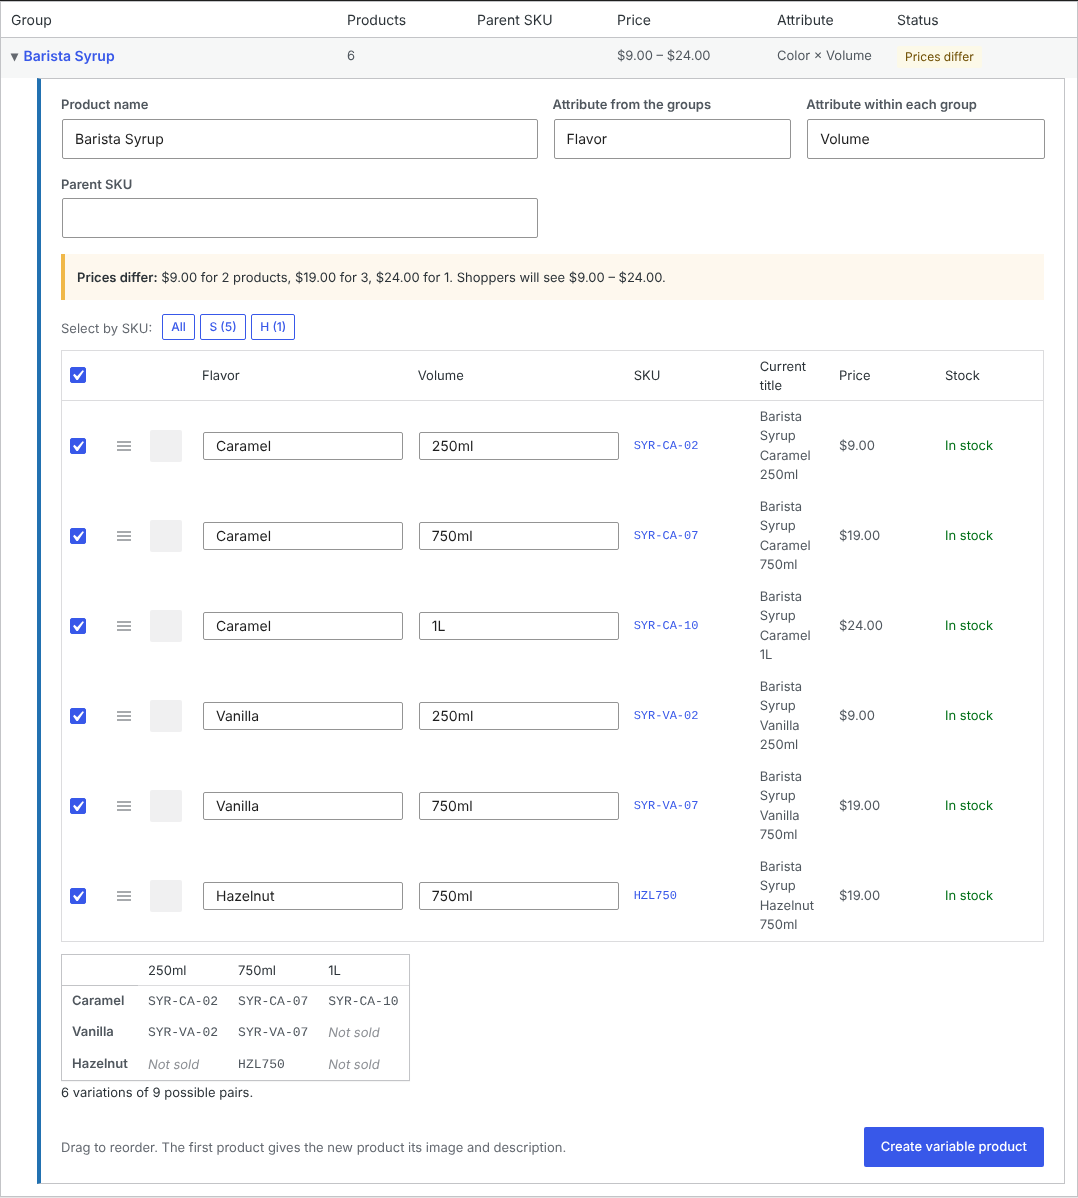
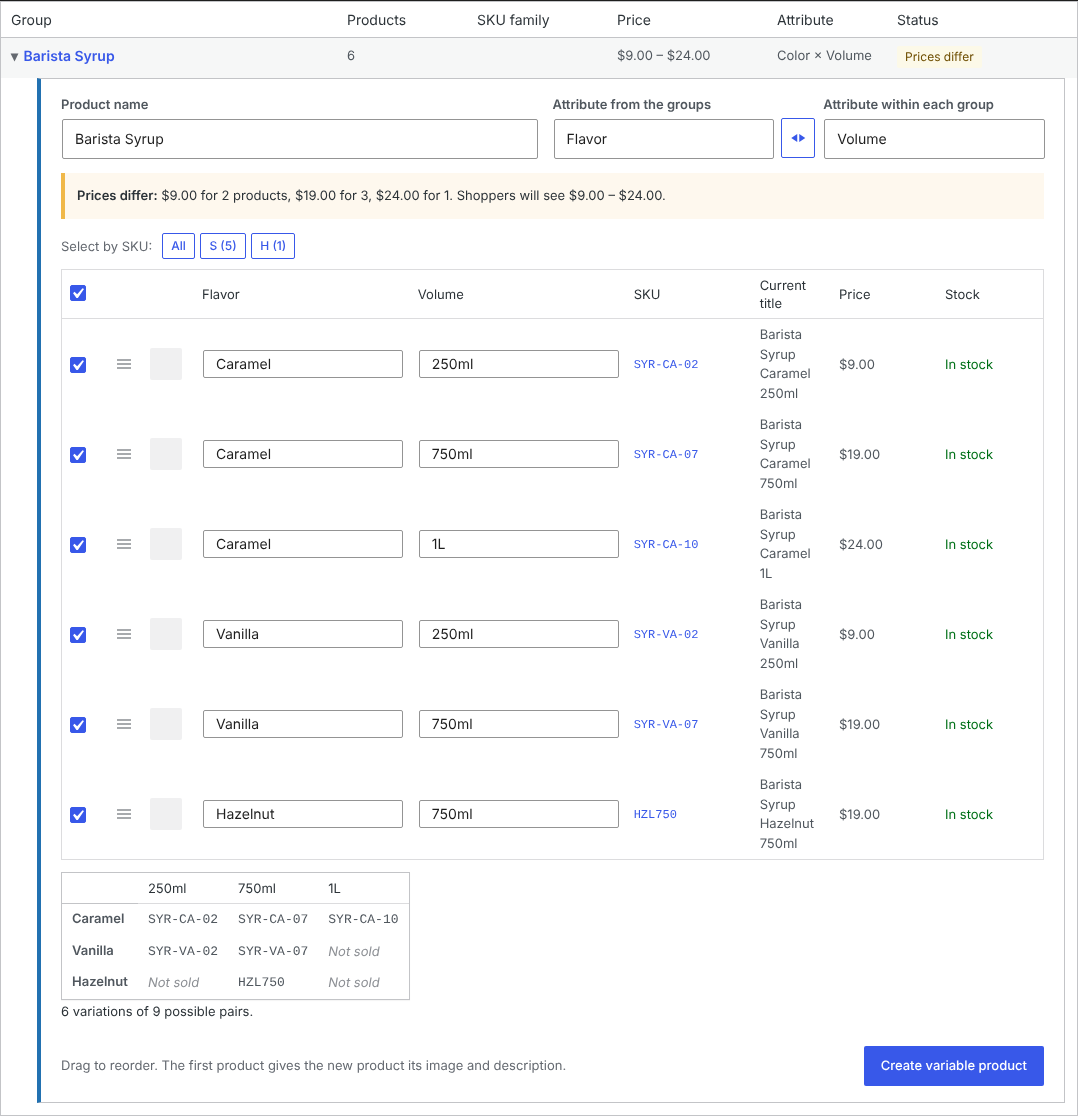
Screenshots for 0.12.0: no Parent SKU field, SKU family column, attribute swap button
Retakes the listing screenshots and the site's search, card, grid and og images.
site/screenshots.mjs records how the site-only images are made.

Claude-Session: https://claude.ai/code/session_01KvoELPTb9Qi2miVjMVnWNr

diff --git a/site/index.html b/site/index.html
@@ -69,7 +69,7 @@
 					<p>Tick the groups and products that are one product and click <b>Combine into one product</b>. Products, or one group plus a few strays, make a product with one attribute, such as Color. Two or more groups make a product with two attributes, such as Flavor and Size, with a grid of the pairs you actually sell.</p>
 				</div>
 				<figure class="shot">
-					<img src="images/combine-grid.webp" width="1078" height="1076" alt="Barista Syrup combined from the Caramel and Vanilla groups and a Hazelnut product: one row per product with its Color and Volume, and a grid showing which pairs are sold.">
+					<img src="images/combine-grid.webp" width="1078" height="1116" alt="Barista Syrup combined from the Caramel and Vanilla groups and a Hazelnut product: one row per product with its Flavor and Volume, and a grid showing which pairs are sold.">
 				</figure>
 				</div>
 			</li>
@@ -79,7 +79,7 @@
 					<p>Check each product, the variant label read from its name, its SKU, price and stock. Rename the product, change the attribute, fix labels, drag to reorder, or untick anything that doesn't belong. Nothing changes until you click Create.</p>
 				</div>
 				<figure class="shot">
-					<img src="images/combine-card.webp" width="1076" height="390" alt="A group being reviewed: product name Classic Crew Tee, attribute Color, and four rows labeled Black, Heather Grey, Navy and White with their SKUs, prices and stock.">
+					<img src="images/combine-card.webp" width="983" height="342" alt="A group being reviewed: product name Classic Crew Tee, attribute Color, and four rows labeled Black, Heather Grey, Navy and White with their SKUs, prices and stock.">
 				</figure>
 			</li>
 			<li>
